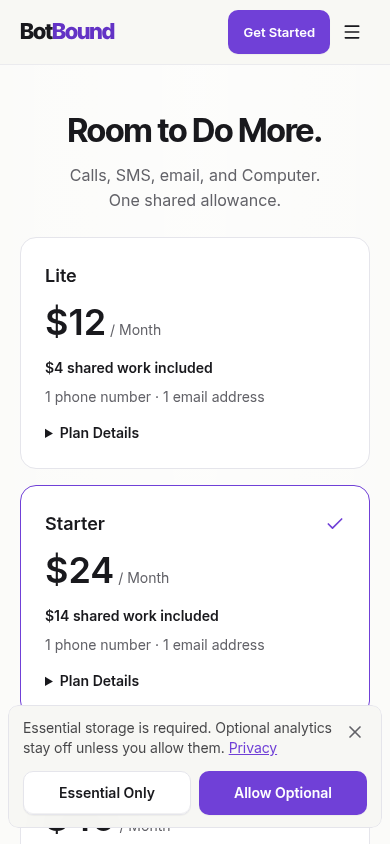
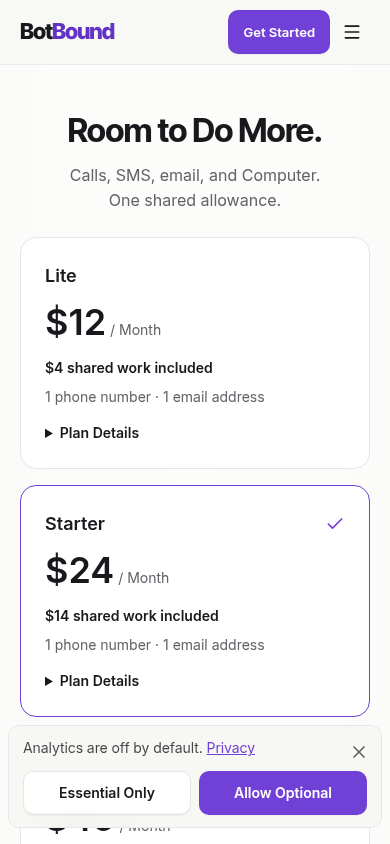
Reduce first-visit privacy notice on mobile

Changed region(s): [[0.0615, 0.8318, 0.8615, 0.8934], [0.8923, 0.8318, 0.9231, 0.8934]]

diff --git a/tests/e2e/marketing-a11y.spec.ts b/tests/e2e/marketing-a11y.spec.ts
@@ -97,7 +97,7 @@ test("homepage has no axe violations or horizontal overflow at review widths", a
 });
 
 test("first-visit privacy choices stay compact on mobile pricing", async ({ page }) => {
-  await page.setViewportSize({ width: 390, height: 844 });
+  await page.setViewportSize({ width: 320, height: 844 });
   await page.addInitScript(() => {
     localStorage.removeItem("wireline_cookie_consent");
     localStorage.removeItem("wireline_marketing_measurement_consent");
@@ -110,11 +110,29 @@ test("first-visit privacy choices stay compact on mobile pricing", async ({ page
   await expect(privacy.getByRole("button", { name: "Allow Optional", exact: true })).toBeVisible();
   await expect(privacy.getByRole("link", { name: "Privacy", exact: true })).toBeVisible();
 
-  const size = await privacy.evaluate((element) => ({
-    height: element.getBoundingClientRect().height,
-    viewportHeight: window.innerHeight,
-  }));
-  expect(size.height / size.viewportHeight).toBeLessThanOrEqual(0.16);
+  for (const width of [320, 390]) {
+    await page.setViewportSize({ width, height: 844 });
+    const size = await privacy.evaluate((element) => ({
+      height: element.getBoundingClientRect().height,
+      viewportHeight: window.innerHeight,
+    }));
+    expect(
+      size.height / size.viewportHeight,
+      `privacy notice height at ${width}px`,
+    ).toBeLessThanOrEqual(0.13);
+    const dimensions = await page.evaluate(() => ({
+      clientWidth: document.documentElement.clientWidth,
+      documentWidth: document.documentElement.scrollWidth,
+      bodyWidth: document.body.scrollWidth,
+    }));
+    expect(
+      dimensions.documentWidth,
+      `privacy notice document overflow at ${width}px`,
+    ).toBeLessThanOrEqual(dimensions.clientWidth);
+    expect(dimensions.bodyWidth, `privacy notice body overflow at ${width}px`).toBeLessThanOrEqual(
+      dimensions.clientWidth,
+    );
+  }
 
   const results = await new AxeBuilder({ page }).include(".wl-privacy-choices").analyze();
   expect(results.violations).toEqual([]);

diff --git a/src/components/CookieConsent.tsx b/src/components/CookieConsent.tsx
@@ -198,7 +198,7 @@ export default function CookieConsent() {
             <div className="flex-1 min-w-0 space-y-3 sm:flex sm:items-center sm:gap-3 sm:space-y-0">
               <h2 className="sr-only">Privacy Choices</h2>
               <p className="wl-balance break-words text-sm leading-relaxed text-foreground/80 sm:flex-1">
-                Essential storage is required. Optional analytics stay off unless you allow them.{" "}
+                Analytics are off by default.{" "}
                 <Link
                   to="/privacy"
                   className="text-brand hover:text-brand/80 underline"
@@ -217,7 +217,7 @@ export default function CookieConsent() {
                   Your privacy signal keeps measurement off.
                 </p>
               ) : (
-                <div className="grid [grid-template-columns:repeat(auto-fit,minmax(min(100%,8.5rem),1fr))] gap-2 sm:flex sm:shrink-0">
+                <div className="grid grid-cols-2 gap-2 sm:flex sm:shrink-0">
                   <ShadButton
                     type="button"
                     variant="outline"

diff --git a/docs/design/evidence/public-storefront-2026-10-27/README.md b/docs/design/evidence/public-storefront-2026-10-27/README.md
@@ -4,4 +4,4 @@ The “before” home and pricing screenshots were captured from production at `
 
 The candidate pricing capture uses a local `/api/billing/plans` fixture exposing only the Lite, Starter, and Plus usage-tier IDs so the real plan-card component can render. Stripe is marked unconfigured; no checkout, payment, account creation, message, or call was triggered.
 
-The privacy pair uses the same local candidate and pricing fixture. “Before” renders the base-commit consent component; “after” renders the compact candidate copy. At 390×844, the visible panel measured 156px before (18.5%) and 123px after (14.6%). The earlier owner-reported 21% figure remains the historical production observation.
+The privacy pair uses the same local candidate and pricing fixture. “Before” renders the base-commit consent component; “after” renders the compact candidate copy. At 390×844, the visible panel measured 156px before (18.5%) and 103px after (12.2%). The shorter message and two-column action row also keep the panel at 103px at 320×844. The earlier owner-reported 21% figure remains the historical production observation.
